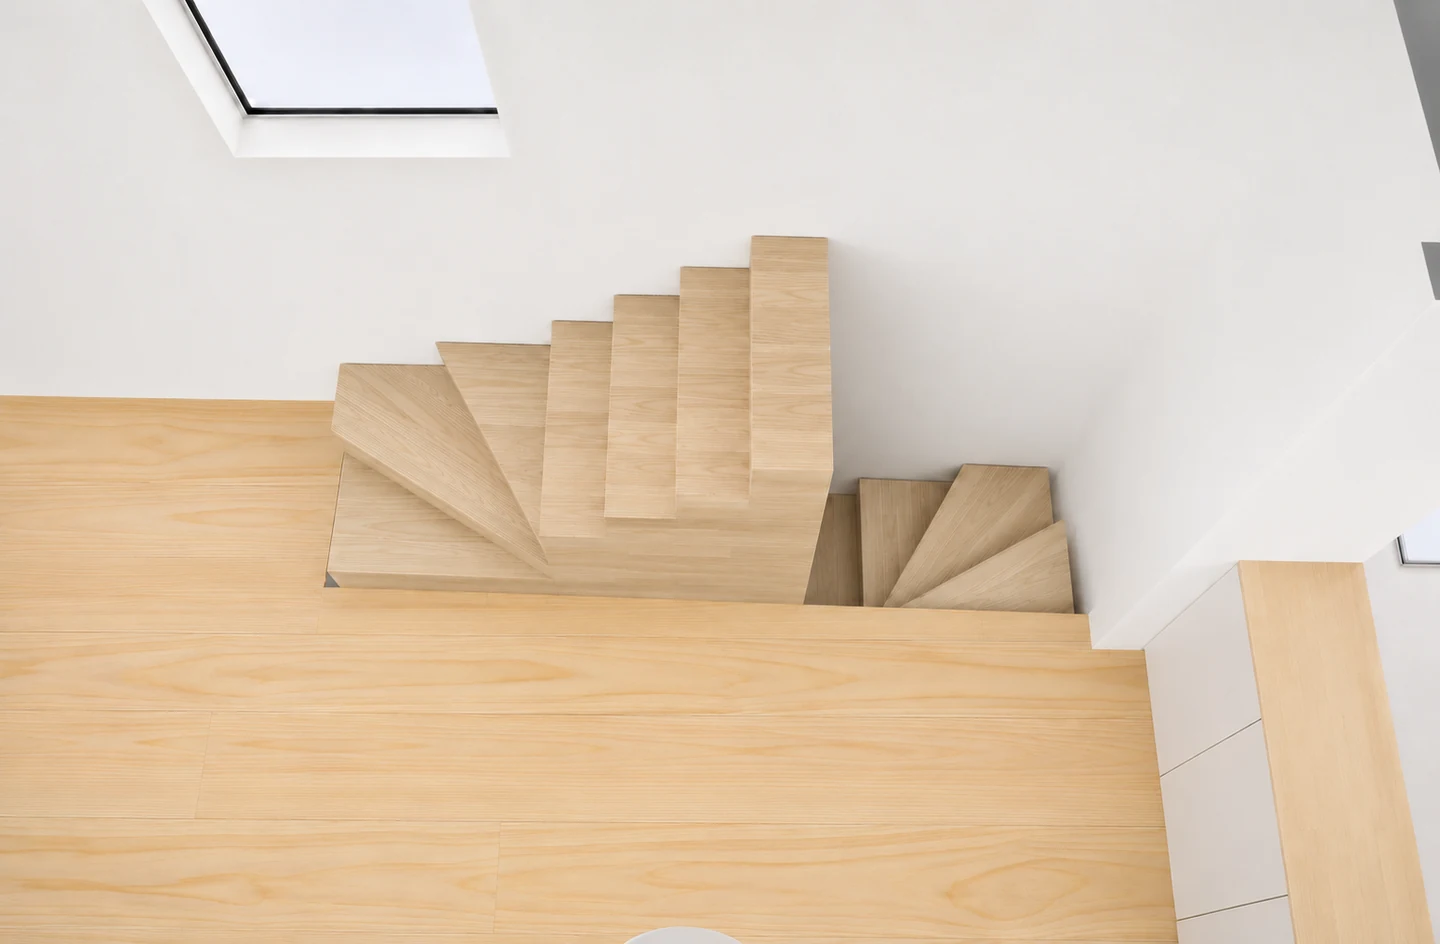
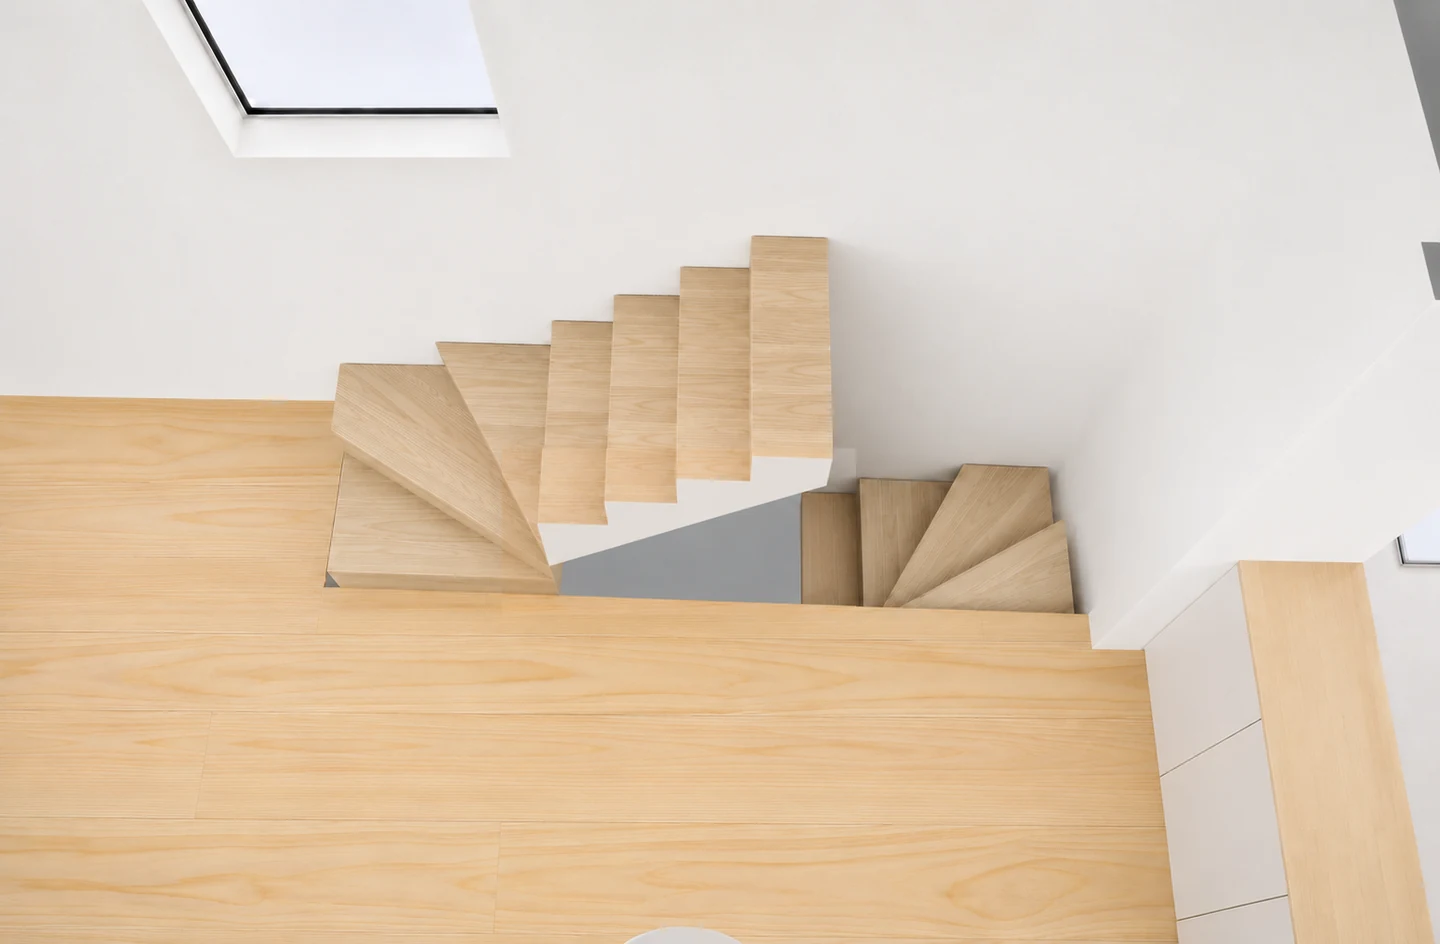
リビングの引違い窓と階段裏の写真を更新

Changed region(s): [[0.375, 0.4608, 0.5938, 0.6451]]

diff --git a/index.html b/index.html
@@ -20,19 +20,19 @@
     <a href="#stairs">階段・全体</a>
   </nav>
   <main>
-    <section id="living" aria-labelledby="living-title"><h2 id="living-title">リビング・ダイニング</h2><div class="cards"><a class="card card--feature" href="images/living.webp?v=44c743c" data-photo="リビングからキッチン"><img src="images/living-small.webp?v=44c743c" srcset="images/living-small.webp?v=44c743c 640w, images/living.webp?v=44c743c 1440w" sizes="(max-width: 560px) calc(100vw - 32px), (max-width: 850px) 91vw, 700px" width="640" height="420" alt="リビングからキッチン" fetchpriority="high" decoding="async"><span>リビングからキッチン</span></a>
-<a class="card" href="images/dining-table.webp?v=44c743c" data-photo="テーブルとペンダント"><img src="images/dining-table-small.webp?v=44c743c" srcset="images/dining-table-small.webp?v=44c743c 640w, images/dining-table.webp?v=44c743c 1440w" sizes="(max-width: 560px) calc(100vw - 32px), (max-width: 850px) 47vw, 360px" width="640" height="420" alt="テーブルとペンダント" loading="lazy" decoding="async"><span>テーブルとペンダント</span></a>
-<a class="card" href="images/dining-windows.webp?v=44c743c" data-photo="ダイニングの高窓"><img src="images/dining-windows-small.webp?v=44c743c" srcset="images/dining-windows-small.webp?v=44c743c 640w, images/dining-windows.webp?v=44c743c 1440w" sizes="(max-width: 560px) calc(100vw - 32px), (max-width: 850px) 47vw, 360px" width="640" height="420" alt="ダイニングの高窓" loading="lazy" decoding="async"><span>ダイニングの高窓</span></a>
-<a class="card" href="images/dining-stairwall.webp?v=44c743c" data-photo="サイドボードと階段"><img src="images/dining-stairwall-small.webp?v=44c743c" srcset="images/dining-stairwall-small.webp?v=44c743c 640w, images/dining-stairwall.webp?v=44c743c 1440w" sizes="(max-width: 560px) calc(100vw - 32px), (max-width: 850px) 47vw, 360px" width="640" height="420" alt="サイドボードと階段" loading="lazy" decoding="async"><span>サイドボードと階段</span></a>
-<a class="card" href="images/dining-reverse.webp?v=44c743c" data-photo="キッチン側からリビング"><img src="images/dining-reverse-small.webp?v=44c743c" srcset="images/dining-reverse-small.webp?v=44c743c 640w, images/dining-reverse.webp?v=44c743c 1440w" sizes="(max-width: 560px) calc(100vw - 32px), (max-width: 850px) 47vw, 360px" width="640" height="420" alt="キッチン側からリビング" loading="lazy" decoding="async"><span>キッチン側からリビング</span></a>
-<a class="card" href="images/living-window.webp?v=44c743c" data-photo="リビングの引違い窓"><img src="images/living-window-small.webp?v=44c743c" srcset="images/living-window-small.webp?v=44c743c 640w, images/living-window.webp?v=44c743c 1440w" sizes="(max-width: 560px) calc(100vw - 32px), (max-width: 850px) 47vw, 360px" width="640" height="420" alt="リビングの引違い窓" loading="lazy" decoding="async"><span>リビングの引違い窓</span></a></div></section>
-<section id="kitchen" aria-labelledby="kitchen-title"><h2 id="kitchen-title">キッチン</h2><div class="cards"><a class="card" href="images/from-sink.webp?v=44c743c" data-photo="シンク前からダイニング"><img src="images/from-sink-small.webp?v=44c743c" srcset="images/from-sink-small.webp?v=44c743c 640w, images/from-sink.webp?v=44c743c 1440w" sizes="(max-width: 560px) calc(100vw - 32px), (max-width: 850px) 47vw, 360px" width="640" height="420" alt="シンク前からダイニング" loading="lazy" decoding="async"><span>シンク前からダイニング</span></a>
-<a class="card" href="images/front-storage.webp?v=44c743c" data-photo="キッチン前収納"><img src="images/front-storage-small.webp?v=44c743c" srcset="images/front-storage-small.webp?v=44c743c 640w, images/front-storage.webp?v=44c743c 1440w" sizes="(max-width: 560px) calc(100vw - 32px), (max-width: 850px) 47vw, 360px" width="640" height="420" alt="キッチン前収納" loading="lazy" decoding="async"><span>キッチン前収納</span></a>
-<a class="card" href="images/kitchen-overhead.webp?v=44c743c" data-photo="キッチン俯瞰"><img src="images/kitchen-overhead-small.webp?v=44c743c" srcset="images/kitchen-overhead-small.webp?v=44c743c 640w, images/kitchen-overhead.webp?v=44c743c 1440w" sizes="(max-width: 560px) calc(100vw - 32px), (max-width: 850px) 47vw, 360px" width="640" height="420" alt="キッチン俯瞰" loading="lazy" decoding="async"><span>キッチン俯瞰</span></a>
-<a class="card" href="images/kitchen-windows.webp?v=44c743c" data-photo="キッチンの窓"><img src="images/kitchen-windows-small.webp?v=44c743c" srcset="images/kitchen-windows-small.webp?v=44c743c 640w, images/kitchen-windows.webp?v=44c743c 1440w" sizes="(max-width: 560px) calc(100vw - 32px), (max-width: 850px) 47vw, 360px" width="640" height="420" alt="キッチンの窓" loading="lazy" decoding="async"><span>キッチンの窓</span></a></div></section>
-<section id="stairs" aria-labelledby="stairs-title"><h2 id="stairs-title">階段・全体</h2><div class="cards"><a class="card" href="images/stairs-front.webp?v=44c743c" data-photo="階段正面"><img src="images/stairs-front-small.webp?v=44c743c" srcset="images/stairs-front-small.webp?v=44c743c 640w, images/stairs-front.webp?v=44c743c 1440w" sizes="(max-width: 560px) calc(100vw - 32px), (max-width: 850px) 47vw, 360px" width="640" height="420" alt="階段正面" loading="lazy" decoding="async"><span>階段正面</span></a>
-<a class="card" href="images/both-stair-turns.webp?v=44c743c" data-photo="両側の回り段"><img src="images/both-stair-turns-small.webp?v=44c743c" srcset="images/both-stair-turns-small.webp?v=44c743c 640w, images/both-stair-turns.webp?v=44c743c 1440w" sizes="(max-width: 560px) calc(100vw - 32px), (max-width: 850px) 47vw, 360px" width="640" height="420" alt="両側の回り段" loading="lazy" decoding="async"><span>両側の回り段</span></a>
-<a class="card" href="images/overview.webp?v=44c743c" data-photo="2階LDKの全体俯瞰"><img src="images/overview-small.webp?v=44c743c" srcset="images/overview-small.webp?v=44c743c 640w, images/overview.webp?v=44c743c 1440w" sizes="(max-width: 560px) calc(100vw - 32px), (max-width: 850px) 47vw, 360px" width="640" height="420" alt="2階LDKの全体俯瞰" loading="lazy" decoding="async"><span>2階LDKの全体俯瞰</span></a></div></section>
+    <section id="living" aria-labelledby="living-title"><h2 id="living-title">リビング・ダイニング</h2><div class="cards"><a class="card card--feature" href="images/living.webp?v=85eb7af" data-photo="リビングからキッチン"><img src="images/living-small.webp?v=85eb7af" srcset="images/living-small.webp?v=85eb7af 640w, images/living.webp?v=85eb7af 1440w" sizes="(max-width: 560px) calc(100vw - 32px), (max-width: 850px) 91vw, 700px" width="640" height="420" alt="リビングからキッチン" fetchpriority="high" decoding="async"><span>リビングからキッチン</span></a>
+<a class="card" href="images/dining-table.webp?v=85eb7af" data-photo="テーブルとペンダント"><img src="images/dining-table-small.webp?v=85eb7af" srcset="images/dining-table-small.webp?v=85eb7af 640w, images/dining-table.webp?v=85eb7af 1440w" sizes="(max-width: 560px) calc(100vw - 32px), (max-width: 850px) 47vw, 360px" width="640" height="420" alt="テーブルとペンダント" loading="lazy" decoding="async"><span>テーブルとペンダント</span></a>
+<a class="card" href="images/dining-windows.webp?v=85eb7af" data-photo="ダイニングの高窓"><img src="images/dining-windows-small.webp?v=85eb7af" srcset="images/dining-windows-small.webp?v=85eb7af 640w, images/dining-windows.webp?v=85eb7af 1440w" sizes="(max-width: 560px) calc(100vw - 32px), (max-width: 850px) 47vw, 360px" width="640" height="420" alt="ダイニングの高窓" loading="lazy" decoding="async"><span>ダイニングの高窓</span></a>
+<a class="card" href="images/dining-stairwall.webp?v=85eb7af" data-photo="サイドボードと階段"><img src="images/dining-stairwall-small.webp?v=85eb7af" srcset="images/dining-stairwall-small.webp?v=85eb7af 640w, images/dining-stairwall.webp?v=85eb7af 1440w" sizes="(max-width: 560px) calc(100vw - 32px), (max-width: 850px) 47vw, 360px" width="640" height="420" alt="サイドボードと階段" loading="lazy" decoding="async"><span>サイドボードと階段</span></a>
+<a class="card" href="images/dining-reverse.webp?v=85eb7af" data-photo="キッチン側からリビング"><img src="images/dining-reverse-small.webp?v=85eb7af" srcset="images/dining-reverse-small.webp?v=85eb7af 640w, images/dining-reverse.webp?v=85eb7af 1440w" sizes="(max-width: 560px) calc(100vw - 32px), (max-width: 850px) 47vw, 360px" width="640" height="420" alt="キッチン側からリビング" loading="lazy" decoding="async"><span>キッチン側からリビング</span></a>
+<a class="card" href="images/living-window.webp?v=85eb7af" data-photo="リビングの引違い窓"><img src="images/living-window-small.webp?v=85eb7af" srcset="images/living-window-small.webp?v=85eb7af 640w, images/living-window.webp?v=85eb7af 1440w" sizes="(max-width: 560px) calc(100vw - 32px), (max-width: 850px) 47vw, 360px" width="640" height="420" alt="リビングの引違い窓" loading="lazy" decoding="async"><span>リビングの引違い窓</span></a></div></section>
+<section id="kitchen" aria-labelledby="kitchen-title"><h2 id="kitchen-title">キッチン</h2><div class="cards"><a class="card" href="images/from-sink.webp?v=85eb7af" data-photo="シンク前からダイニング"><img src="images/from-sink-small.webp?v=85eb7af" srcset="images/from-sink-small.webp?v=85eb7af 640w, images/from-sink.webp?v=85eb7af 1440w" sizes="(max-width: 560px) calc(100vw - 32px), (max-width: 850px) 47vw, 360px" width="640" height="420" alt="シンク前からダイニング" loading="lazy" decoding="async"><span>シンク前からダイニング</span></a>
+<a class="card" href="images/front-storage.webp?v=85eb7af" data-photo="キッチン前収納"><img src="images/front-storage-small.webp?v=85eb7af" srcset="images/front-storage-small.webp?v=85eb7af 640w, images/front-storage.webp?v=85eb7af 1440w" sizes="(max-width: 560px) calc(100vw - 32px), (max-width: 850px) 47vw, 360px" width="640" height="420" alt="キッチン前収納" loading="lazy" decoding="async"><span>キッチン前収納</span></a>
+<a class="card" href="images/kitchen-overhead.webp?v=85eb7af" data-photo="キッチン俯瞰"><img src="images/kitchen-overhead-small.webp?v=85eb7af" srcset="images/kitchen-overhead-small.webp?v=85eb7af 640w, images/kitchen-overhead.webp?v=85eb7af 1440w" sizes="(max-width: 560px) calc(100vw - 32px), (max-width: 850px) 47vw, 360px" width="640" height="420" alt="キッチン俯瞰" loading="lazy" decoding="async"><span>キッチン俯瞰</span></a>
+<a class="card" href="images/kitchen-windows.webp?v=85eb7af" data-photo="キッチンの窓"><img src="images/kitchen-windows-small.webp?v=85eb7af" srcset="images/kitchen-windows-small.webp?v=85eb7af 640w, images/kitchen-windows.webp?v=85eb7af 1440w" sizes="(max-width: 560px) calc(100vw - 32px), (max-width: 850px) 47vw, 360px" width="640" height="420" alt="キッチンの窓" loading="lazy" decoding="async"><span>キッチンの窓</span></a></div></section>
+<section id="stairs" aria-labelledby="stairs-title"><h2 id="stairs-title">階段・全体</h2><div class="cards"><a class="card" href="images/stairs-front.webp?v=85eb7af" data-photo="階段正面"><img src="images/stairs-front-small.webp?v=85eb7af" srcset="images/stairs-front-small.webp?v=85eb7af 640w, images/stairs-front.webp?v=85eb7af 1440w" sizes="(max-width: 560px) calc(100vw - 32px), (max-width: 850px) 47vw, 360px" width="640" height="420" alt="階段正面" loading="lazy" decoding="async"><span>階段正面</span></a>
+<a class="card" href="images/both-stair-turns.webp?v=85eb7af" data-photo="両側の回り段"><img src="images/both-stair-turns-small.webp?v=85eb7af" srcset="images/both-stair-turns-small.webp?v=85eb7af 640w, images/both-stair-turns.webp?v=85eb7af 1440w" sizes="(max-width: 560px) calc(100vw - 32px), (max-width: 850px) 47vw, 360px" width="640" height="420" alt="両側の回り段" loading="lazy" decoding="async"><span>両側の回り段</span></a>
+<a class="card" href="images/overview.webp?v=85eb7af" data-photo="2階LDKの全体俯瞰"><img src="images/overview-small.webp?v=85eb7af" srcset="images/overview-small.webp?v=85eb7af 640w, images/overview.webp?v=85eb7af 1440w" sizes="(max-width: 560px) calc(100vw - 32px), (max-width: 850px) 47vw, 360px" width="640" height="420" alt="2階LDKの全体俯瞰" loading="lazy" decoding="async"><span>2階LDKの全体俯瞰</span></a></div></section>
   </main>
   <footer>俯瞰や回り段の一部は、内部が見えるように壁や天井を外して表示しています。</footer>
   <dialog aria-labelledby="photo-title">
